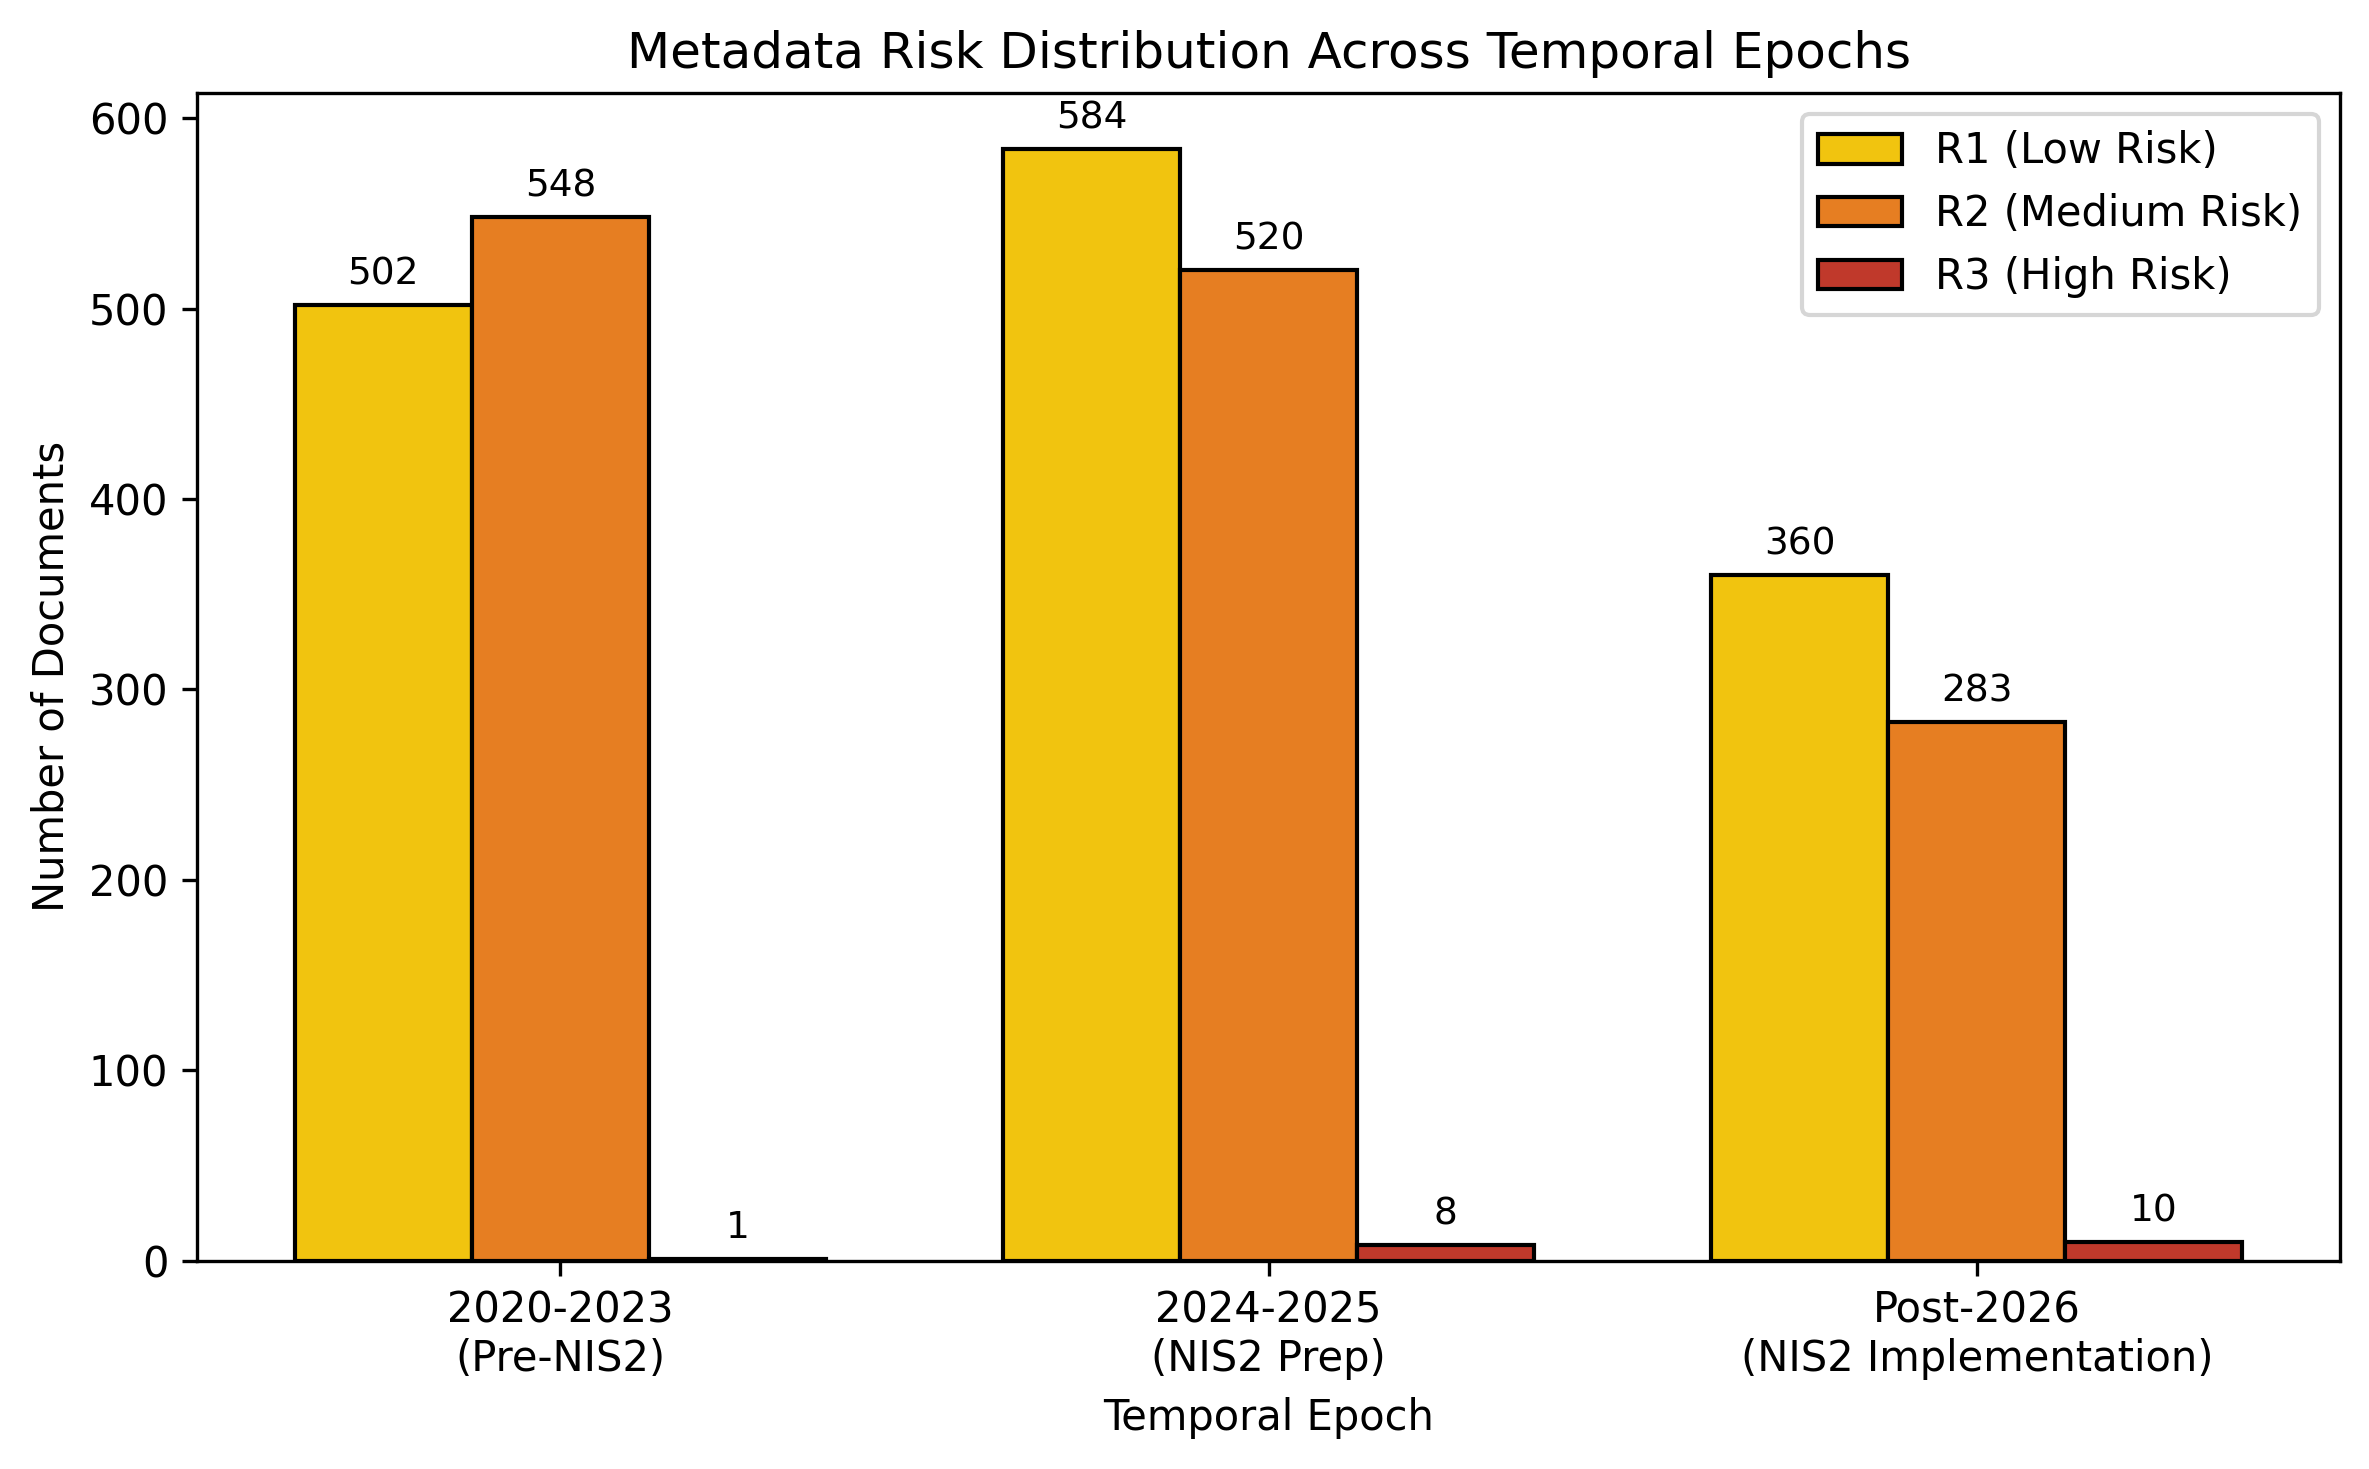
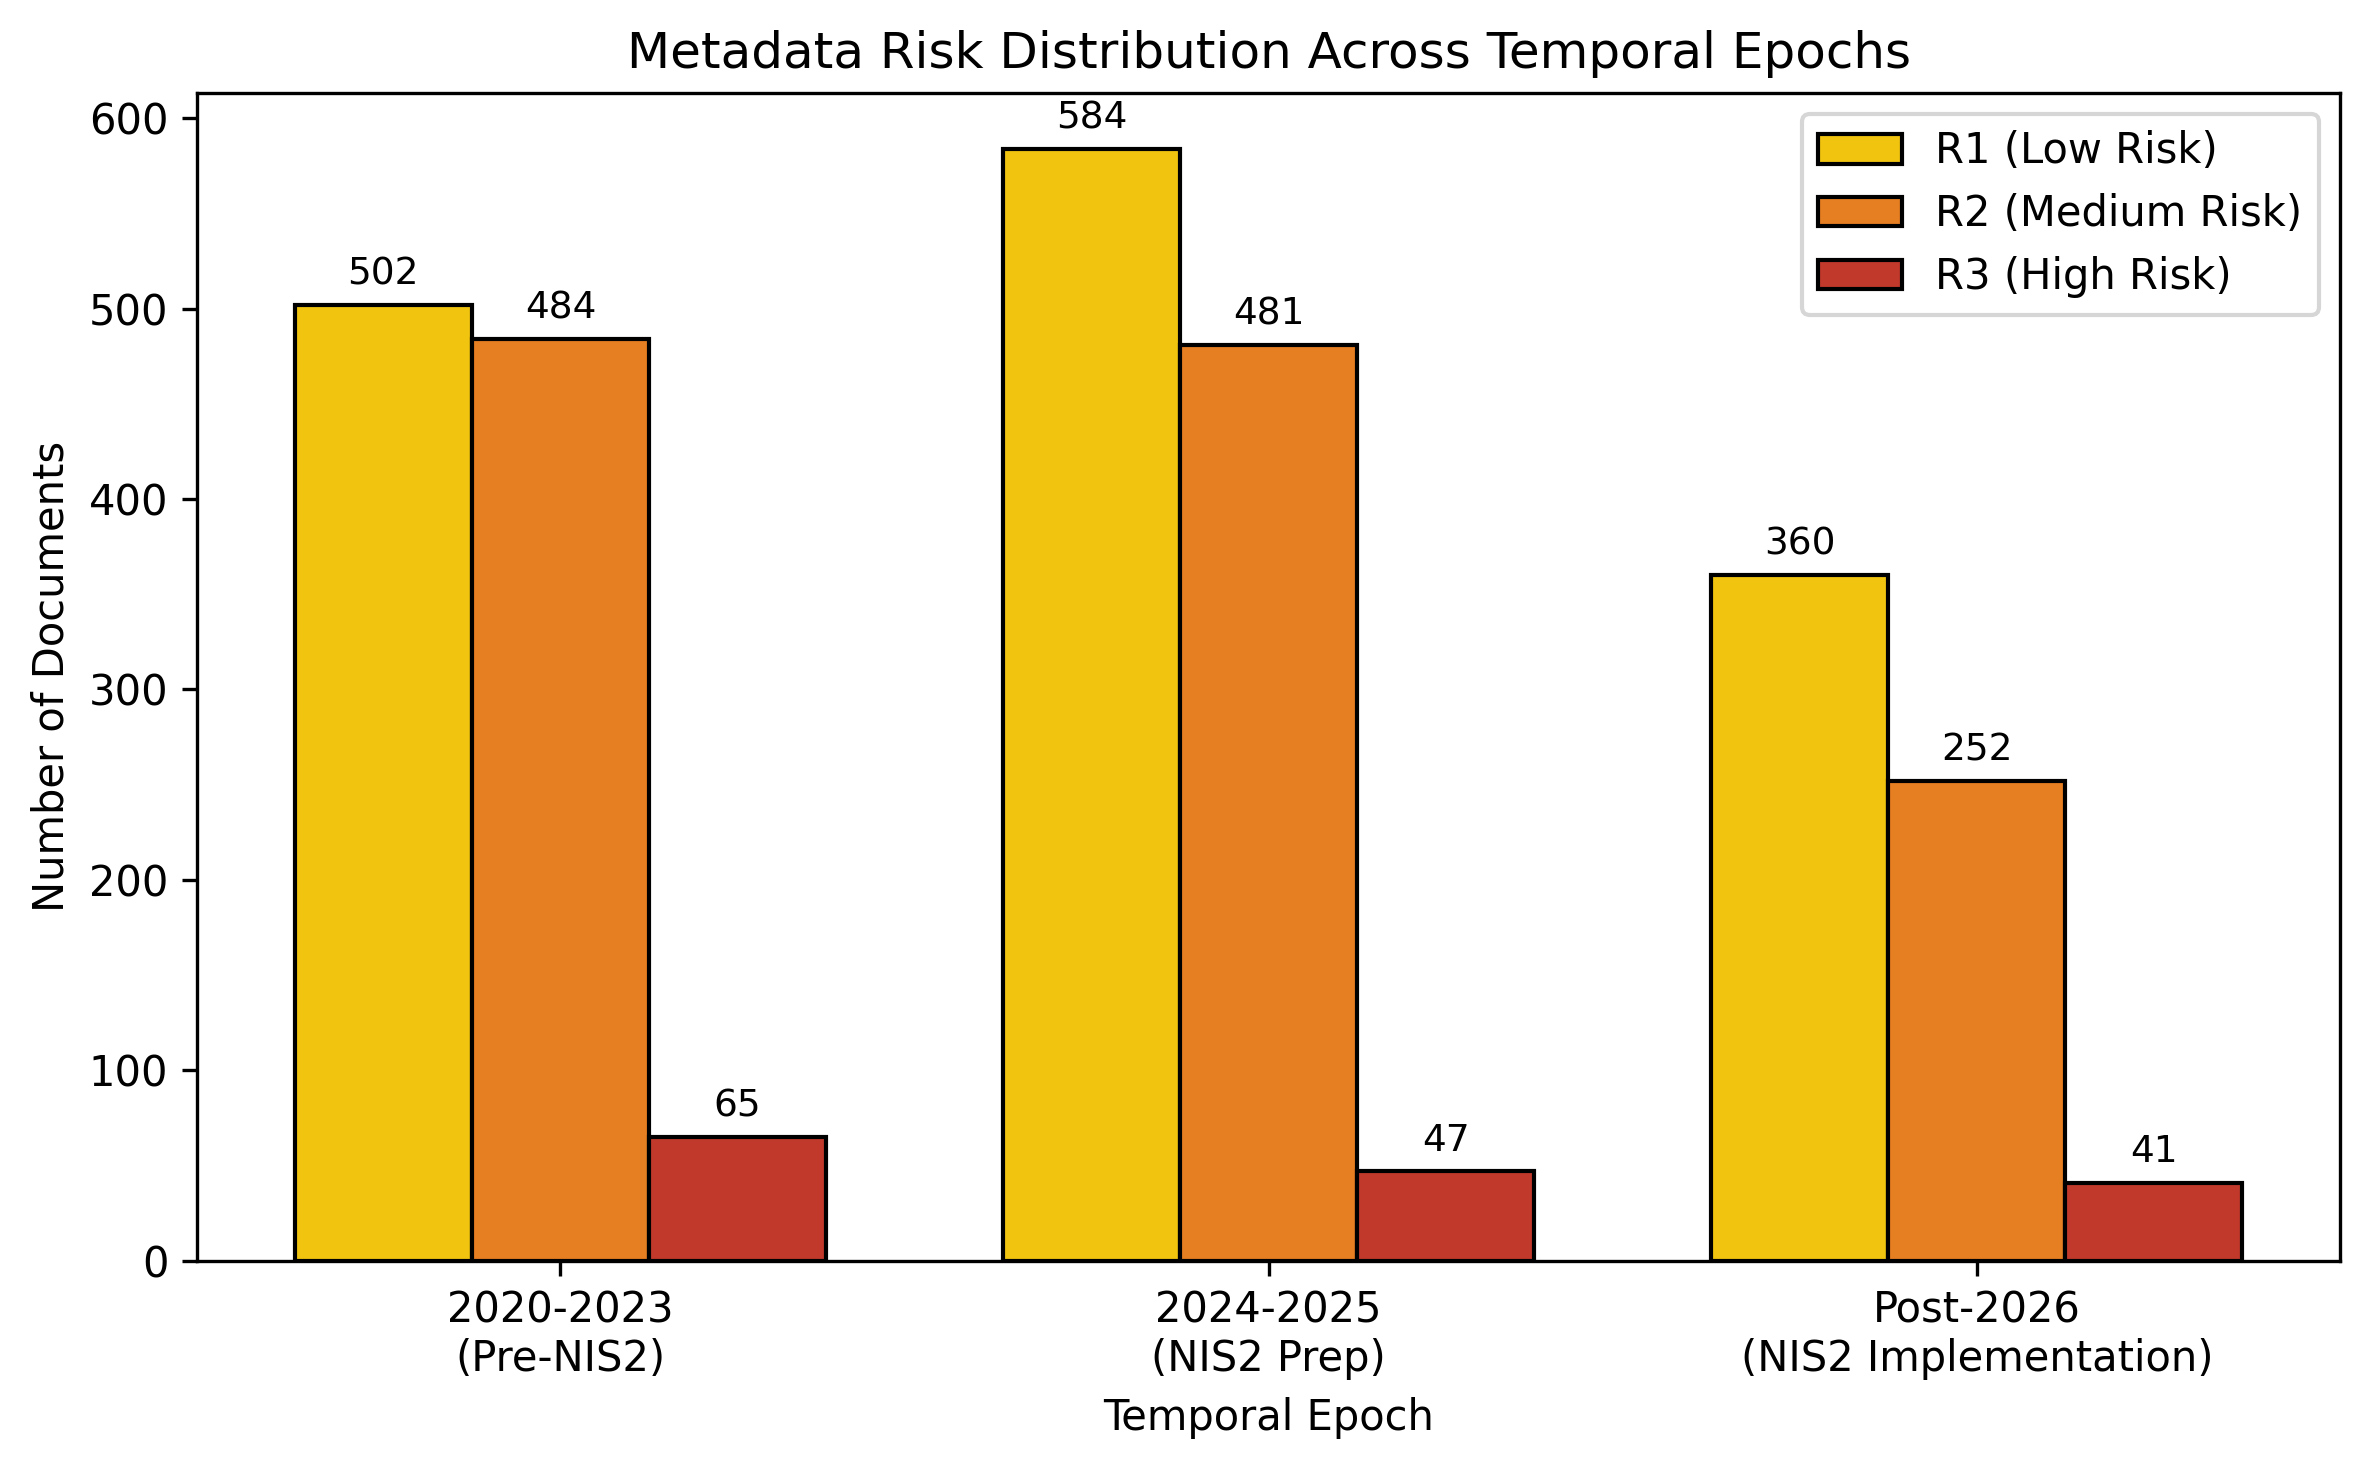
Update R3 classifications to include AD usernames

diff --git a/06_Report/final_paper/conference_101719.tex b/06_Report/final_paper/conference_101719.tex
@@ -188,7 +188,7 @@ The data collection process was used to minimise impact on the targeted websites
 \section{Results} % ~ 1200 words
 
 \subsection{Overall Risk Distribution}
-In accordance with the metadata risk taxonomy defined in the Methodology, all 66,989 extracted metadata fields were classified from R0 to R3. At the document level, 47.8\% of documents exhibited R2 (Medium Risk) as their highest risk factor, and 0.7\% exhibited R3 (High Risk). 
+In accordance with the metadata risk taxonomy defined in the Methodology, all 66,989 extracted metadata fields were classified from R0 to R3. At the document level, 43.0\% of documents exhibited R2 (Medium Risk) as their highest risk factor, and 5.4\% exhibited R3 (High Risk). 
 
 Figure \ref{fig:tier_risk} presents the distribution of R1, R2, and R3 risk levels across the three institutional tiers.
 
